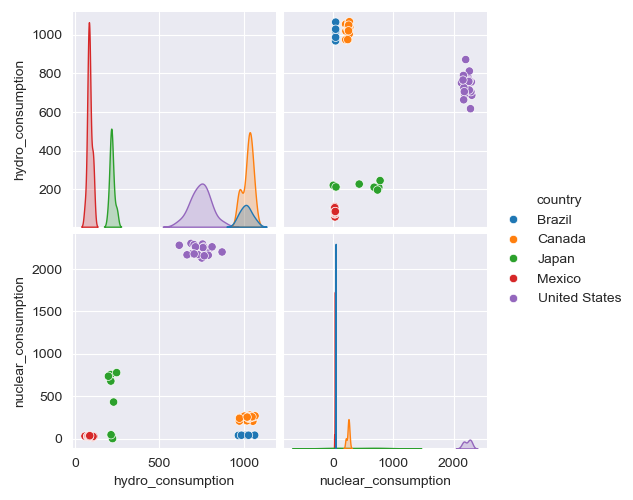
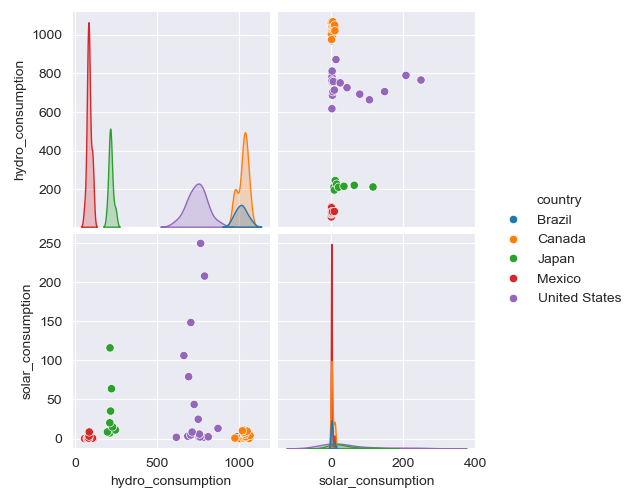
adding updated files

diff --git a/index.html b/index.html
@@ -7,9 +7,9 @@
     <style>
         body {
             font-family: Arial, sans-serif;
+            font-size:x-large;
             margin: 0;
             padding: 0;
-            background-image: url('background_image.jpg'); /* Replace with the path to your transparent background image */
             background-size: cover;
             color: rgb(4, 4, 4);
             text-align: center;
@@ -39,14 +39,10 @@
             margin: 0 auto;
         }
 
-        /* Add custom styles to ensure interactivity */
-        .plotly-chart {
-            margin: 30px 0;
-        }
+    
     </style>
 
-    <!-- Plotly JS (for interactive charts) -->
-    <script src="https://cdn.plot.ly/plotly-latest.min.js"></script>
+    
 </head>
 <body>
     <div class="container">
@@ -83,47 +79,24 @@
             <img src="Output\Solar_Share_in_Electricity_Top_5.png" alt="Solar Share in Electricity">
         </div>
         <div class="chart"></div>
-            <h2>Nuclear and Hydro</h2>
+            <h2>Solar and Hydro</h2>
             <img src="Output\pairplot_top_5_countries.png" alt="Nuclear and Hydro">
         </div>
-
-        <!-- Plotly Interactive Chart -->
-        <div class="plotly-chart">
-            <h2>Hydro Share of Electricity Over Time (Top 5 Countries)</h2>
-            <div id="interactive-hydro-share"></div> <!-- Div for the Plotly chart -->
-            <script>
-                // Sample Plotly chart code (update with your own Plotly data)
-                var data = [{
-                    x: [2005, 2010, 2015, 2020],
-                    y: [30, 40, 50, 60],
-                    mode: 'markers',
-                    type: 'scatter',
-                    marker: { size: [20, 40, 60, 80] },
-                    name: 'Country A'
-                }, {
-                    x: [2005, 2010, 2015, 2020],
-                    y: [20, 30, 40, 50],
-                    mode: 'markers',
-                    type: 'scatter',
-                    marker: { size: [15, 35, 55, 75] },
-                    name: 'Country B'
-                }];
-
-                var layout = {
-                    title: 'Hydro Share of Electricity Over Time',
-                    xaxis: { title: 'Year' },
-                    yaxis: { title: 'Hydro Share (%)' }
-                };
-
-                Plotly.newPlot('interactive-hydro-share', data, layout);
-            </script>
+        <div class="chart"></div>
+            <h2>Average Biofuel and Winf consumption</h2>
+            <img src="Output\Average Biofuel and Wind Consumption.jpg" alt="Nuclear and Hydro">
+        </div>
+        <div class="chart"></div>
+            <h2>Comparision of Electricity Demand, Generation and Share of Total Energy</h2>
+            <img src="Output\Comparision of Electricity Demand, Generation and Share of total energy.jpg" alt="Nuclear and Hydro">
+        </div>
+        <div class="chart"></div>
+            <h2>Global Events Impact (Covid)</h2>
+            <img src="Output\Global Events Impact.jpg" alt="Nuclear and Hydro">
         </div>
 
-        <div class="chart">
-            <h2>Nuclear vs Hydro Consumption (Top 5 Countries)</h2>
-            <img src="pairplot_top_5_countries.png" alt="Nuclear vs Hydro Consumption">
-        </div>
 
+        
     </div>
 </body>
 </html>
